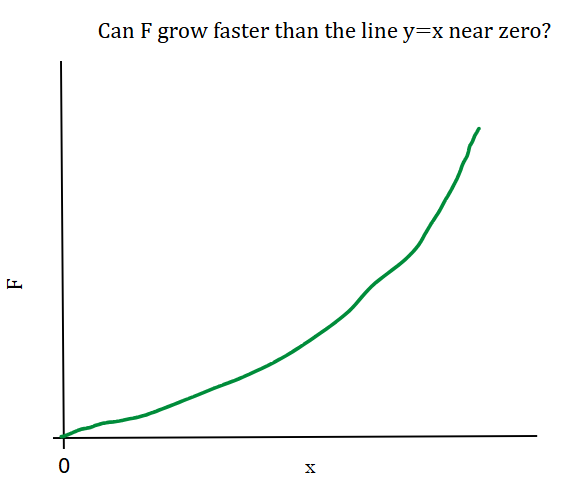
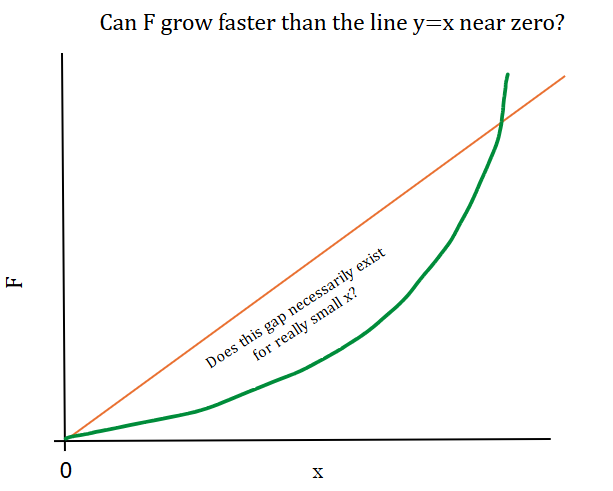
fix typos, improve wording, improve figure

diff --git a/_posts/2025-09-20-cdfs_near_zero.md b/_posts/2025-09-20-cdfs_near_zero.md
@@ -13,20 +13,20 @@ Question: if we have a function that is $0$ at $0$, and increases from there whi
 Here's a more precise version of that question. Consider a function $F : [0,\infty) \to [0,\infty)$ with the following conditions:
 
 $$
-F(0) = 0; \quad \exists \e > 0 : \forall x \in (0,\e) \;F'(x) > 0 \text{ and } F''(x) > 0 \tag{1}.
+F(0) = 0; \quad \exists \e > 0 : \forall x \in (0,\e) \;F'(x) > 0 \text{ and } F^{\prime\prime}(x) > 0 \tag{1}.
 $$
 
-Must we have $F(x) < x$ for $0  <x < \e$? 
+\textbf{Conjecture}: must we have $F(x) < x$ for $0  <x < \e$? 
 
-I'll give the context for this at the end, but for now I'll just consider it on its own. The first function I thought to check it this conjecture with is the trusty convex polynomial $x^n$ for $n$ big. The conjecture happens to be true for such functions. $x^n$ can't somehow curl up fast enough to be above $1$ for small inputs.
+I'll give the context for this at the end, but for now I'll just consider it on its own. The first function I used to check this conjecture is the trusty convex polynomial $x^n$ for $n$ big. The conjecture happens to be true for such functions. $x^n$ can't somehow curl up fast enough to be above $1$ for small inputs.
 
-Well, it turns out that it's pretty easy to find examples of functions that satisfy $(1)$ yet the conjecture is false for them. $x^n$ doesn't work because its slope near $0$ approaches $0$ (the derivative is $nx^{n-1} \to 0$). What if our convex function had a derivative of at least $1$ near zero? 
+Despite this, it turns out that it's pretty easy to find examples of functions that satisfy $(1)$ yet the conjecture is false for them. $x^n$ doesn't work because its slope near $0$ approaches $0$ (the derivative is $nx^{n-1} \to 0$). What if our convex function had a derivative of at least $1$ near zero? 
 
-One example: $h(x) = e^x-1$. This satisfies $(1)$: $h(0) = 0$, $h'(x) = e^x > 0$, and $h''(x) = e^x > 0$ also. It is a standard mathematical fact that $e^x - 1 > x$ for all $x$, which precisely refutes the conjecture.
+One example: $h(x) = e^x-1$. This satisfies $(1)$: $h(0) = 0$, $h'(x) = e^x > 0$, and $h^{\prime\prime}(x) = e^x > 0$ also. It is a standard mathematical fact that $e^x - 1 > x$ for all $x$, which precisely refutes the conjecture.
 
 $h$ is not unique, and we can produce many more such functions in the following way. Note that $x = \int_0^x 1 \,\text dt$, and so the slope is $1$ by the fundamental theorem of calculus (a rather convoluted way to arrive at that fact). To get a function with a faster slope near $0$, we just need to integrate something that's bigger than $1$ near zero, as if $f > g$ on $(0,\e)$ then $\int_0^\e f > \int_0^\e g$ (this is the monotonicity of integration).
 
-Well, one such function is the constant $2$. Does that work? $F(x) = \int_0^x 2 \,\text dt = 2x$ satisfies $(1)$ if we relax to accept $F''(x) = 0$. This gives us the rather-expected result that the line $y = 2x$ is always above the line $y = x$. So that's nearly an example, but it'd be nice to get some with positive curvature.
+Well, one such function is the constant $2$. Does that work? $F(x) = \int_0^x 2 \,\text dt = 2x$ satisfies $(1)$ if we relax to accept $F^{\prime\prime}(x) = 0$. This gives us the rather-expected result that the line $y = 2x$ is always above the line $y = x$ for positive inputs. So that's nearly an example, but it'd be nice to get some with positive curvature.
 
 Let $f$ be the integrand, so $F(x) = \int_0^x f(t)\,\text dt$. We could try a function like $f(x) = ax^p + 1$ for $a,p>0$. Then $f > 1$ near zero, and $F(x) = \frac{a}{p+1}x^{p+1} + x > x$ near zero, with polynomial growth away from the line $y=x$. So that works. We can get even faster growth by adding up more polynomials, and in the limit we can arrive at $f(x) = \sum_{n=0}^\infty \frac{x^n}{n!} = e^x$. $f(x) > 1$ for all $x > 0$, so 
 
@@ -36,9 +36,10 @@ $$
 
 This gives us a proof of the earlier fact that $e^x - 1 > x$ for $x > 0$! I haven't seen this particular proof before, hence my surprise.
 
+---
 
 The original context of this was a question about cumulative distribution functions. Consider random variables $X$ and $Y$ (RVs) restricted to $[0,1]$, where $X$ has a bell-like shape (so it is smooth, unimodal, increases up to a single global max with an inflection point along the way, and then decreases after that max with another inflection point) and $Y \sim \text{Unif}(0,1)$. $F$ will denote the CDF of $X$, and $G(x) = x$ on $[0,1]$ is the CDF of $Y$. We want to know if $X$, being convex below the smaller inflection point, is necessarily less concentrated near zero than the uniform $Y$. 
 
 The above results give us our answer: if the density of $X$ (denoted $f$) goes to zero at $0$, vanishing like a Gaussian does on $\mathbb R$, then we do indeed have $X$ less dense than uniform in a neighborhood of zero. But we can have a bell-like curve without this happening, as shown in the figure below. So we have a bell-like density that is "super-uniform" near zero exactly when the density is at least $1$ (almost everywhere) in a neighborhood of zero. 
 
-![This density leads to a CDF that satisfies (1) yet is denser than uniform near zero](/assets/posts/2025-09-20/example.png)
+![This figure gives an example of densities with CDFs satisfying (1) where one is more concentrated near zero than uniform, and the other is not](/assets/posts/2025-09-20/example.png)
